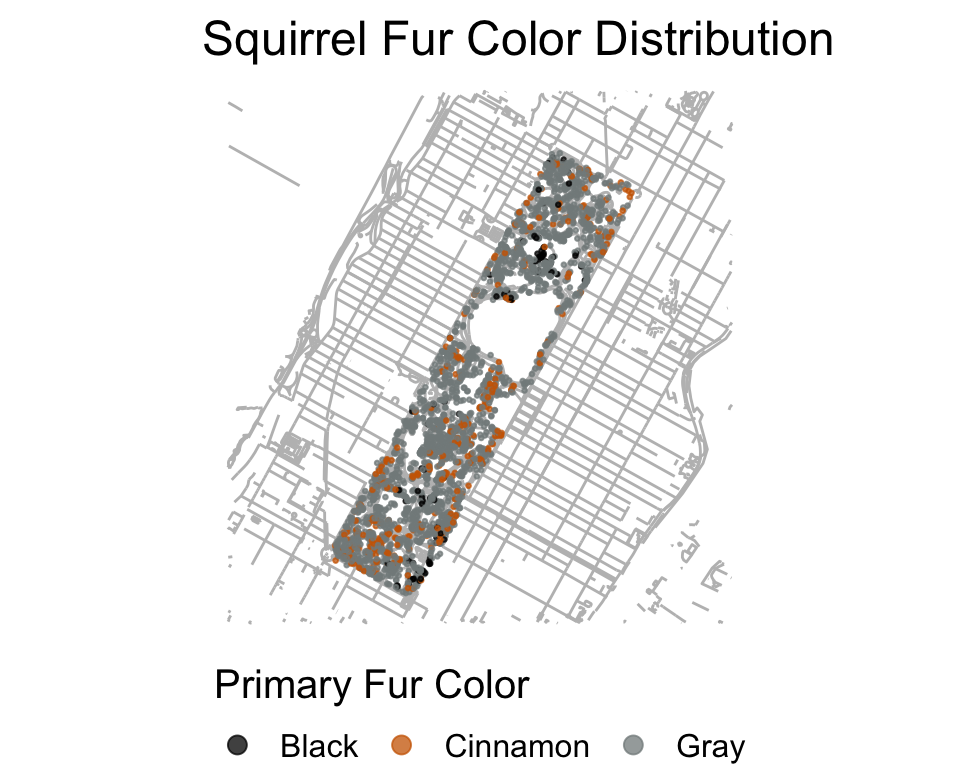
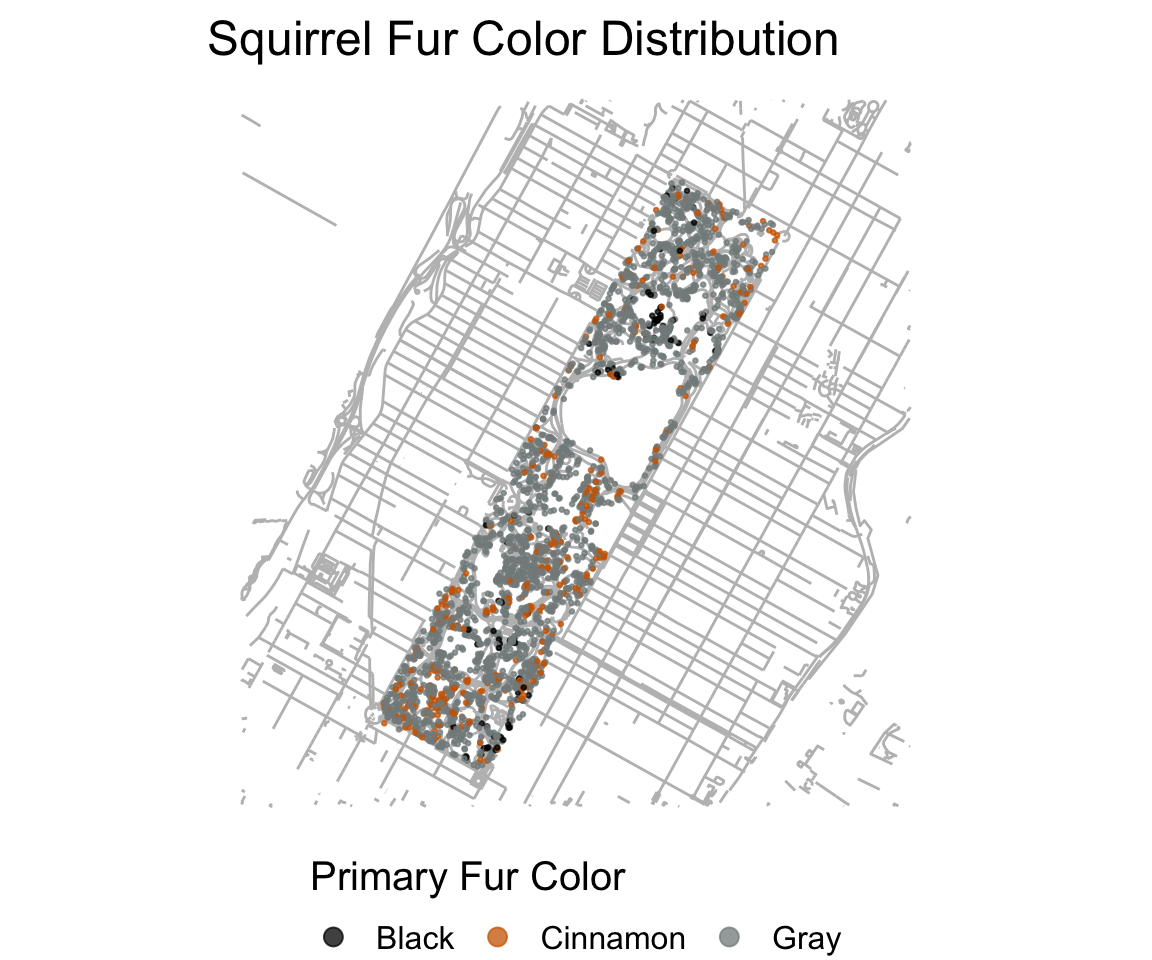
descriptives page formatting

diff --git a/descriptives.html b/descriptives.html
@@ -322,36 +322,44 @@ library(plotly)
 library(sf)
 library(knitr)</code></pre>
 <div
-id="in-this-section-we-will-be-looking-at-squirrel-demographics-such-as-fur-color-and-age."
+id="who-are-the-central-park-squirrels-here-we-report-who-they-are-and-what-they-look-like."
 class="section level4">
-<h4>In this section, we will be looking at squirrel demographics, such
-as fur color and age.</h4>
+<h4>Who are the Central Park squirrels? Here we report who they are and
+what they look like.</h4>
 <p>First, we will import the cleaned squirrel data and a shapefile of
 Central Park.</p>
 <pre class="r"><code>squirrel_census = 
   read_csv(&quot;data/clean_squirrel_2018.csv&quot;)
 
 central_park_map = st_read(here::here(&#39;central_park&#39;, &#39;CentralPark.shp&#39;), quiet = TRUE)</code></pre>
-<p>There are a total of 2824 squirrel observations in the data set.</p>
+<p>In the 2018 census, there are 2824 unique squirrel sightings
+documented. As volunteer researchers observed the squirrels, they
+provided each squirrel with a unique identifier and documented the age
+and fur colors of each critter.</p>
+<p><br><br></p>
 </div>
 <div id="lets-first-explore-squirrel-ages." class="section level4">
 <h4>Let’s first explore squirrel ages.</h4>
+<div style="display: flex;">
+<div>
 <pre class="r"><code>squirrel_census |&gt; 
   filter(age != &quot;?&quot;) |&gt; 
   ggplot() +
   geom_sf(data = central_park_map, color = &quot;grey&quot;) +
   geom_point(
     aes(x = x, y = y, color = age),
-    size = 0.5, alpha = 0.75) +
+    size = 0.5, alpha = 0.5) +
     theme_void(base_size = 15) +
   theme(legend.position = &#39;bottom&#39;) +
   guides(color = guide_legend(
     title.position = &quot;top&quot;,
     override.aes = list(size = 3))) +
-  scale_color_manual(values = c(&quot;Adult&quot; = &quot;aquamarine3&quot;, &quot;Juvenile&quot; = &quot;coral1&quot;)) +
-  labs(title = &quot;Squirrel Age&quot;,
-       color = &quot;Age&quot;)</code></pre>
+  scale_color_manual(values = c(&quot;Adult&quot; = &quot;aquamarine3&quot;, &quot;Juvenile&quot; = &quot;slateblue3&quot;)) +
+  labs(color = &quot;Age&quot;)</code></pre>
 <p><img src="descriptives_files/figure-html/unnamed-chunk-3-1.png" width="576" style="display: block; margin: auto;" /></p>
+</div>
+<div>
+<p><br><br> <br><br></p>
 <pre class="r"><code>squirrel_census |&gt; 
   filter(age != &quot;?&quot;) |&gt; 
   group_by(age) |&gt; 
@@ -366,15 +374,40 @@ central_park_map = st_read(here::here(&#39;central_park&#39;, &#39;CentralPark.s
 ## Warning in RColorBrewer::brewer.pal(N, &quot;Set2&quot;): minimal value for n is 3, returning requested palette with 3 different levels
 
 ## Warning in RColorBrewer::brewer.pal(N, &quot;Set2&quot;): minimal value for n is 3, returning requested palette with 3 different levels</code></pre>
-<div class="plotly html-widget html-fill-item-overflow-hidden html-fill-item" id="htmlwidget-11ba92f805b15582c7b4" style="width:672px;height:480px;"></div>
-<script type="application/json" data-for="htmlwidget-11ba92f805b15582c7b4">{"x":{"visdat":{"12606a756bb":["function () ","plotlyVisDat"]},"cur_data":"12606a756bb","attrs":{"12606a756bb":{"x":{},"y":{},"color":{},"alpha_stroke":1,"sizes":[10,100],"spans":[1,20],"type":"bar"}},"layout":{"margin":{"b":40,"l":60,"t":25,"r":10},"xaxis":{"domain":[0,1],"automargin":true,"title":"Age","type":"category","categoryorder":"array","categoryarray":["Adult","Juvenile"]},"yaxis":{"domain":[0,1],"automargin":true,"title":"Number of Squirrels"},"hovermode":"closest","showlegend":true},"source":"A","config":{"modeBarButtonsToAdd":["hoverclosest","hovercompare"],"showSendToCloud":false},"data":[{"x":["Adult"],"y":[2503],"type":"bar","name":"Adult","marker":{"color":"rgba(102,194,165,1)","line":{"color":"rgba(102,194,165,1)"}},"textfont":{"color":"rgba(102,194,165,1)"},"error_y":{"color":"rgba(102,194,165,1)"},"error_x":{"color":"rgba(102,194,165,1)"},"xaxis":"x","yaxis":"y","frame":null},{"x":["Juvenile"],"y":[319],"type":"bar","name":"Juvenile","marker":{"color":"rgba(141,160,203,1)","line":{"color":"rgba(141,160,203,1)"}},"textfont":{"color":"rgba(141,160,203,1)"},"error_y":{"color":"rgba(141,160,203,1)"},"error_x":{"color":"rgba(141,160,203,1)"},"xaxis":"x","yaxis":"y","frame":null}],"highlight":{"on":"plotly_click","persistent":false,"dynamic":false,"selectize":false,"opacityDim":0.20000000000000001,"selected":{"opacity":1},"debounce":0},"shinyEvents":["plotly_hover","plotly_click","plotly_selected","plotly_relayout","plotly_brushed","plotly_brushing","plotly_clickannotation","plotly_doubleclick","plotly_deselect","plotly_afterplot","plotly_sunburstclick"],"base_url":"https://plot.ly"},"evals":[],"jsHooks":[]}</script>
-<p>It appears that the majority of observed squirrels are adults. There
-are 2503 adult squirrels in the data set and only 319 juvenile
-squirrels.</p>
+<div class="plotly html-widget html-fill-item-overflow-hidden html-fill-item" id="htmlwidget-fb969b91764e32d0b79f" style="width:384px;height:336px;"></div>
+<script type="application/json" data-for="htmlwidget-fb969b91764e32d0b79f">{"x":{"visdat":{"12d6c1606457b":["function () ","plotlyVisDat"]},"cur_data":"12d6c1606457b","attrs":{"12d6c1606457b":{"x":{},"y":{},"color":{},"alpha_stroke":1,"sizes":[10,100],"spans":[1,20],"type":"bar"}},"layout":{"margin":{"b":40,"l":60,"t":25,"r":10},"xaxis":{"domain":[0,1],"automargin":true,"title":"Age","type":"category","categoryorder":"array","categoryarray":["Adult","Juvenile"]},"yaxis":{"domain":[0,1],"automargin":true,"title":"Number of Squirrels"},"hovermode":"closest","showlegend":true},"source":"A","config":{"modeBarButtonsToAdd":["hoverclosest","hovercompare"],"showSendToCloud":false},"data":[{"x":["Adult"],"y":[2503],"type":"bar","name":"Adult","marker":{"color":"rgba(102,194,165,1)","line":{"color":"rgba(102,194,165,1)"}},"textfont":{"color":"rgba(102,194,165,1)"},"error_y":{"color":"rgba(102,194,165,1)"},"error_x":{"color":"rgba(102,194,165,1)"},"xaxis":"x","yaxis":"y","frame":null},{"x":["Juvenile"],"y":[319],"type":"bar","name":"Juvenile","marker":{"color":"rgba(141,160,203,1)","line":{"color":"rgba(141,160,203,1)"}},"textfont":{"color":"rgba(141,160,203,1)"},"error_y":{"color":"rgba(141,160,203,1)"},"error_x":{"color":"rgba(141,160,203,1)"},"xaxis":"x","yaxis":"y","frame":null}],"highlight":{"on":"plotly_click","persistent":false,"dynamic":false,"selectize":false,"opacityDim":0.20000000000000001,"selected":{"opacity":1},"debounce":0},"shinyEvents":["plotly_hover","plotly_click","plotly_selected","plotly_relayout","plotly_brushed","plotly_brushing","plotly_clickannotation","plotly_doubleclick","plotly_deselect","plotly_afterplot","plotly_sunburstclick"],"base_url":"https://plot.ly"},"evals":[],"jsHooks":[]}</script>
+</div>
+</div>
+<p>The majority of observed squirrels are adults. There are 2503 adult
+squirrels in the data set and only 319 juvenile squirrels.</p>
+<p>We can also see that juvenile squirrels can be frequently observed in
+some areas of the Central Park, such as Central Park West between 72nd
+St. and 66th St. </p>
+<p><br><br></p>
+<div style="display: flex;">
+<div>
+<img src="pictures/baby_squirrel.jpeg" width="80%" style="display: block; margin: auto;" />
+<center style="font-size: 14px;">
+Juvenile gray squirrel
+</center>
+<p><br><br></p>
+</div>
+<div>
+<img src="pictures/adult_squirrel.jpeg" width="80%" style="display: block; margin: auto;" />
+<center style="font-size: 14px;">
+Adult cinnamon squirrel
+</center>
+</div>
+</div>
+<p><br><br></p>
 </div>
 <div id="lets-also-look-at-primary-and-highlight-fur-color."
 class="section level4">
 <h4>Let’s also look at primary and highlight fur color.</h4>
+<p>Some squirrels model only one fur color, but some extra fashionable
+squirrels will don mixed patterns of multiple fur colors. The primary
+fur color is the main color of the squirrel and the secondary colors
+accent the primary color to give some squirrels unique style.</p>
 <pre class="r"><code>ggplot() +
   geom_sf(data = central_park_map, color = &quot;grey&quot;) +
   geom_point(
@@ -389,7 +422,9 @@ class="section level4">
   labs(color = &#39;Primary Fur Color&#39;,
        title = &#39;Squirrel Fur Color Distribution&#39;) +
   scale_color_manual(values = c(&quot;Black&quot; = &quot;black&quot;, &quot;Gray&quot; = &quot;azure4&quot;, &quot;Cinnamon&quot; = &quot;darkorange3&quot;)) </code></pre>
-<p><img src="descriptives_files/figure-html/unnamed-chunk-5-1.png" width="576" style="display: block; margin: auto;" /></p>
+<p><img src="descriptives_files/figure-html/unnamed-chunk-7-1.png" width="576" style="display: block; margin: auto;" /></p>
+<div style="display: flex;">
+<div>
 <pre class="r"><code>squirrel_census |&gt; 
   filter(!(combination_of_primary_and_highlight_color %in% c(&quot;N/A&quot;, &quot;?&quot;))) |&gt; 
   group_by(primary_fur_color) |&gt; 
@@ -399,10 +434,13 @@ class="section level4">
          type = &quot;bar&quot;, colors = &quot;viridis&quot;) |&gt; 
   layout(
     xaxis = list(title = &quot;Primary Fur Color&quot;),   
-    yaxis = list(title = &quot;Number of Squirrels&quot;) 
+    yaxis = list(title = &quot;Number of Squirrels&quot;),
+    legend = list(x = 0, y = 1, orientation = &quot;h&quot;)
   )</code></pre>
-<div class="plotly html-widget html-fill-item-overflow-hidden html-fill-item" id="htmlwidget-a91b53ba2e6580a7b072" style="width:672px;height:480px;"></div>
-<script type="application/json" data-for="htmlwidget-a91b53ba2e6580a7b072">{"x":{"visdat":{"126061c4999af":["function () ","plotlyVisDat"]},"cur_data":"126061c4999af","attrs":{"126061c4999af":{"x":{},"y":{},"color":{},"colors":"viridis","alpha_stroke":1,"sizes":[10,100],"spans":[1,20],"type":"bar"}},"layout":{"margin":{"b":40,"l":60,"t":25,"r":10},"xaxis":{"domain":[0,1],"automargin":true,"title":"Primary Fur Color","type":"category","categoryorder":"array","categoryarray":["Black","Cinnamon","Gray"]},"yaxis":{"domain":[0,1],"automargin":true,"title":"Number of Squirrels"},"hovermode":"closest","showlegend":true},"source":"A","config":{"modeBarButtonsToAdd":["hoverclosest","hovercompare"],"showSendToCloud":false},"data":[{"x":["Black"],"y":[100],"type":"bar","name":"Black","marker":{"color":"rgba(68,1,84,1)","line":{"color":"rgba(68,1,84,1)"}},"textfont":{"color":"rgba(68,1,84,1)"},"error_y":{"color":"rgba(68,1,84,1)"},"error_x":{"color":"rgba(68,1,84,1)"},"xaxis":"x","yaxis":"y","frame":null},{"x":["Cinnamon"],"y":[375],"type":"bar","name":"Cinnamon","marker":{"color":"rgba(33,144,141,1)","line":{"color":"rgba(33,144,141,1)"}},"textfont":{"color":"rgba(33,144,141,1)"},"error_y":{"color":"rgba(33,144,141,1)"},"error_x":{"color":"rgba(33,144,141,1)"},"xaxis":"x","yaxis":"y","frame":null},{"x":["Gray"],"y":[2349],"type":"bar","name":"Gray","marker":{"color":"rgba(253,231,37,1)","line":{"color":"rgba(253,231,37,1)"}},"textfont":{"color":"rgba(253,231,37,1)"},"error_y":{"color":"rgba(253,231,37,1)"},"error_x":{"color":"rgba(253,231,37,1)"},"xaxis":"x","yaxis":"y","frame":null}],"highlight":{"on":"plotly_click","persistent":false,"dynamic":false,"selectize":false,"opacityDim":0.20000000000000001,"selected":{"opacity":1},"debounce":0},"shinyEvents":["plotly_hover","plotly_click","plotly_selected","plotly_relayout","plotly_brushed","plotly_brushing","plotly_clickannotation","plotly_doubleclick","plotly_deselect","plotly_afterplot","plotly_sunburstclick"],"base_url":"https://plot.ly"},"evals":[],"jsHooks":[]}</script>
+<div class="plotly html-widget html-fill-item-overflow-hidden html-fill-item" id="htmlwidget-af737b364f99b5605465" style="width:480px;height:384px;"></div>
+<script type="application/json" data-for="htmlwidget-af737b364f99b5605465">{"x":{"visdat":{"12d6c2f211859":["function () ","plotlyVisDat"]},"cur_data":"12d6c2f211859","attrs":{"12d6c2f211859":{"x":{},"y":{},"color":{},"colors":"viridis","alpha_stroke":1,"sizes":[10,100],"spans":[1,20],"type":"bar"}},"layout":{"margin":{"b":40,"l":60,"t":25,"r":10},"xaxis":{"domain":[0,1],"automargin":true,"title":"Primary Fur Color","type":"category","categoryorder":"array","categoryarray":["Black","Cinnamon","Gray"]},"yaxis":{"domain":[0,1],"automargin":true,"title":"Number of Squirrels"},"legend":{"x":0,"y":1,"orientation":"h"},"hovermode":"closest","showlegend":true},"source":"A","config":{"modeBarButtonsToAdd":["hoverclosest","hovercompare"],"showSendToCloud":false},"data":[{"x":["Black"],"y":[100],"type":"bar","name":"Black","marker":{"color":"rgba(68,1,84,1)","line":{"color":"rgba(68,1,84,1)"}},"textfont":{"color":"rgba(68,1,84,1)"},"error_y":{"color":"rgba(68,1,84,1)"},"error_x":{"color":"rgba(68,1,84,1)"},"xaxis":"x","yaxis":"y","frame":null},{"x":["Cinnamon"],"y":[375],"type":"bar","name":"Cinnamon","marker":{"color":"rgba(33,144,141,1)","line":{"color":"rgba(33,144,141,1)"}},"textfont":{"color":"rgba(33,144,141,1)"},"error_y":{"color":"rgba(33,144,141,1)"},"error_x":{"color":"rgba(33,144,141,1)"},"xaxis":"x","yaxis":"y","frame":null},{"x":["Gray"],"y":[2349],"type":"bar","name":"Gray","marker":{"color":"rgba(253,231,37,1)","line":{"color":"rgba(253,231,37,1)"}},"textfont":{"color":"rgba(253,231,37,1)"},"error_y":{"color":"rgba(253,231,37,1)"},"error_x":{"color":"rgba(253,231,37,1)"},"xaxis":"x","yaxis":"y","frame":null}],"highlight":{"on":"plotly_click","persistent":false,"dynamic":false,"selectize":false,"opacityDim":0.20000000000000001,"selected":{"opacity":1},"debounce":0},"shinyEvents":["plotly_hover","plotly_click","plotly_selected","plotly_relayout","plotly_brushed","plotly_brushing","plotly_clickannotation","plotly_doubleclick","plotly_deselect","plotly_afterplot","plotly_sunburstclick"],"base_url":"https://plot.ly"},"evals":[],"jsHooks":[]}</script>
+</div>
+<div>
 <pre class="r"><code>squirrel_census |&gt; 
   rename(combination_fur_color = combination_of_primary_and_highlight_color) |&gt; 
   count(combination_fur_color) |&gt; 
@@ -410,11 +448,18 @@ class="section level4">
   plot_ly (x = ~combination_fur_color, y = ~n, color = ~combination_fur_color,
          type = &quot;bar&quot;, colors = &quot;viridis&quot;) |&gt; 
   layout(
-    xaxis = list(title = &quot;Fur Color&quot;),   
+    xaxis = list(title = &quot;All Fur Colors&quot;,showticklabels = FALSE),   
     yaxis = list(title = &quot;Number of Squirrels&quot;) 
   )</code></pre>
-<div class="plotly html-widget html-fill-item-overflow-hidden html-fill-item" id="htmlwidget-0aa9896401de2e4ee5d9" style="width:672px;height:480px;"></div>
-<script type="application/json" data-for="htmlwidget-0aa9896401de2e4ee5d9">{"x":{"visdat":{"126063a1ddf08":["function () ","plotlyVisDat"]},"cur_data":"126063a1ddf08","attrs":{"126063a1ddf08":{"x":{},"y":{},"color":{},"colors":"viridis","alpha_stroke":1,"sizes":[10,100],"spans":[1,20],"type":"bar"}},"layout":{"margin":{"b":40,"l":60,"t":25,"r":10},"xaxis":{"domain":[0,1],"automargin":true,"title":"Fur Color","type":"category","categoryorder":"array","categoryarray":["Black+Gray, White","Black+White","Black+Cinnamon, White","Cinnamon+Black, White","Cinnamon+Gray, Black","Gray+Black, White","Black+Gray","Gray+Black, Cinnamon","Cinnamon+Black","Black+Cinnamon","Gray+Black","Gray+Black, Cinnamon, White","Cinnamon+Gray, White","Cinnamon+","Black+","Cinnamon+White","Cinnamon+Gray","Gray+Cinnamon, White","Gray+White","Gray+Cinnamon","Gray+"]},"yaxis":{"domain":[0,1],"automargin":true,"title":"Number of Squirrels"},"hovermode":"closest","showlegend":true},"source":"A","config":{"modeBarButtonsToAdd":["hoverclosest","hovercompare"],"showSendToCloud":false},"data":[{"x":["Black+Gray, White"],"y":[1],"type":"bar","name":"Black+Gray, White","marker":{"color":"rgba(68,1,84,1)","line":{"color":"rgba(68,1,84,1)"}},"textfont":{"color":"rgba(68,1,84,1)"},"error_y":{"color":"rgba(68,1,84,1)"},"error_x":{"color":"rgba(68,1,84,1)"},"xaxis":"x","yaxis":"y","frame":null},{"x":["Black+White"],"y":[2],"type":"bar","name":"Black+White","marker":{"color":"rgba(72,20,102,1)","line":{"color":"rgba(72,20,102,1)"}},"textfont":{"color":"rgba(72,20,102,1)"},"error_y":{"color":"rgba(72,20,102,1)"},"error_x":{"color":"rgba(72,20,102,1)"},"xaxis":"x","yaxis":"y","frame":null},{"x":["Black+Cinnamon, White"],"y":[3],"type":"bar","name":"Black+Cinnamon, White","marker":{"color":"rgba(72,37,117,1)","line":{"color":"rgba(72,37,117,1)"}},"textfont":{"color":"rgba(72,37,117,1)"},"error_y":{"color":"rgba(72,37,117,1)"},"error_x":{"color":"rgba(72,37,117,1)"},"xaxis":"x","yaxis":"y","frame":null},{"x":["Cinnamon+Black, White"],"y":[3],"type":"bar","name":"Cinnamon+Black, White","marker":{"color":"rgba(70,52,128,1)","line":{"color":"rgba(70,52,128,1)"}},"textfont":{"color":"rgba(70,52,128,1)"},"error_y":{"color":"rgba(70,52,128,1)"},"error_x":{"color":"rgba(70,52,128,1)"},"xaxis":"x","yaxis":"y","frame":null},{"x":["Cinnamon+Gray, Black"],"y":[3],"type":"bar","name":"Cinnamon+Gray, Black","marker":{"color":"rgba(65,68,135,1)","line":{"color":"rgba(65,68,135,1)"}},"textfont":{"color":"rgba(65,68,135,1)"},"error_y":{"color":"rgba(65,68,135,1)"},"error_x":{"color":"rgba(65,68,135,1)"},"xaxis":"x","yaxis":"y","frame":null},{"x":["Gray+Black, White"],"y":[7],"type":"bar","name":"Gray+Black, White","marker":{"color":"rgba(59,82,139,1)","line":{"color":"rgba(59,82,139,1)"}},"textfont":{"color":"rgba(59,82,139,1)"},"error_y":{"color":"rgba(59,82,139,1)"},"error_x":{"color":"rgba(59,82,139,1)"},"xaxis":"x","yaxis":"y","frame":null},{"x":["Black+Gray"],"y":[8],"type":"bar","name":"Black+Gray","marker":{"color":"rgba(53,96,141,1)","line":{"color":"rgba(53,96,141,1)"}},"textfont":{"color":"rgba(53,96,141,1)"},"error_y":{"color":"rgba(53,96,141,1)"},"error_x":{"color":"rgba(53,96,141,1)"},"xaxis":"x","yaxis":"y","frame":null},{"x":["Gray+Black, Cinnamon"],"y":[9],"type":"bar","name":"Gray+Black, Cinnamon","marker":{"color":"rgba(47,108,142,1)","line":{"color":"rgba(47,108,142,1)"}},"textfont":{"color":"rgba(47,108,142,1)"},"error_y":{"color":"rgba(47,108,142,1)"},"error_x":{"color":"rgba(47,108,142,1)"},"xaxis":"x","yaxis":"y","frame":null},{"x":["Cinnamon+Black"],"y":[10],"type":"bar","name":"Cinnamon+Black","marker":{"color":"rgba(42,120,142,1)","line":{"color":"rgba(42,120,142,1)"}},"textfont":{"color":"rgba(42,120,142,1)"},"error_y":{"color":"rgba(42,120,142,1)"},"error_x":{"color":"rgba(42,120,142,1)"},"xaxis":"x","yaxis":"y","frame":null},{"x":["Black+Cinnamon"],"y":[15],"type":"bar","name":"Black+Cinnamon","marker":{"color":"rgba(37,132,142,1)","line":{"color":"rgba(37,132,142,1)"}},"textfont":{"color":"rgba(37,132,142,1)"},"error_y":{"color":"rgba(37,132,142,1)"},"error_x":{"color":"rgba(37,132,142,1)"},"xaxis":"x","yaxis":"y","frame":null},{"x":["Gray+Black"],"y":[24],"type":"bar","name":"Gray+Black","marker":{"color":"rgba(33,144,141,1)","line":{"color":"rgba(33,144,141,1)"}},"textfont":{"color":"rgba(33,144,141,1)"},"error_y":{"color":"rgba(33,144,141,1)"},"error_x":{"color":"rgba(33,144,141,1)"},"xaxis":"x","yaxis":"y","frame":null},{"x":["Gray+Black, Cinnamon, White"],"y":[31],"type":"bar","name":"Gray+Black, Cinnamon, White","marker":{"color":"rgba(30,156,137,1)","line":{"color":"rgba(30,156,137,1)"}},"textfont":{"color":"rgba(30,156,137,1)"},"error_y":{"color":"rgba(30,156,137,1)"},"error_x":{"color":"rgba(30,156,137,1)"},"xaxis":"x","yaxis":"y","frame":null},{"x":["Cinnamon+Gray, White"],"y":[56],"type":"bar","name":"Cinnamon+Gray, White","marker":{"color":"rgba(34,168,132,1)","line":{"color":"rgba(34,168,132,1)"}},"textfont":{"color":"rgba(34,168,132,1)"},"error_y":{"color":"rgba(34,168,132,1)"},"error_x":{"color":"rgba(34,168,132,1)"},"xaxis":"x","yaxis":"y","frame":null},{"x":["Cinnamon+"],"y":[58],"type":"bar","name":"Cinnamon+","marker":{"color":"rgba(47,180,124,1)","line":{"color":"rgba(47,180,124,1)"}},"textfont":{"color":"rgba(47,180,124,1)"},"error_y":{"color":"rgba(47,180,124,1)"},"error_x":{"color":"rgba(47,180,124,1)"},"xaxis":"x","yaxis":"y","frame":null},{"x":["Black+"],"y":[71],"type":"bar","name":"Black+","marker":{"color":"rgba(67,190,113,1)","line":{"color":"rgba(67,190,113,1)"}},"textfont":{"color":"rgba(67,190,113,1)"},"error_y":{"color":"rgba(67,190,113,1)"},"error_x":{"color":"rgba(67,190,113,1)"},"xaxis":"x","yaxis":"y","frame":null},{"x":["Cinnamon+White"],"y":[90],"type":"bar","name":"Cinnamon+White","marker":{"color":"rgba(93,200,99,1)","line":{"color":"rgba(93,200,99,1)"}},"textfont":{"color":"rgba(93,200,99,1)"},"error_y":{"color":"rgba(93,200,99,1)"},"error_x":{"color":"rgba(93,200,99,1)"},"xaxis":"x","yaxis":"y","frame":null},{"x":["Cinnamon+Gray"],"y":[155],"type":"bar","name":"Cinnamon+Gray","marker":{"color":"rgba(122,209,81,1)","line":{"color":"rgba(122,209,81,1)"}},"textfont":{"color":"rgba(122,209,81,1)"},"error_y":{"color":"rgba(122,209,81,1)"},"error_x":{"color":"rgba(122,209,81,1)"},"xaxis":"x","yaxis":"y","frame":null},{"x":["Gray+Cinnamon, White"],"y":[258],"type":"bar","name":"Gray+Cinnamon, White","marker":{"color":"rgba(154,217,61,1)","line":{"color":"rgba(154,217,61,1)"}},"textfont":{"color":"rgba(154,217,61,1)"},"error_y":{"color":"rgba(154,217,61,1)"},"error_x":{"color":"rgba(154,217,61,1)"},"xaxis":"x","yaxis":"y","frame":null},{"x":["Gray+White"],"y":[466],"type":"bar","name":"Gray+White","marker":{"color":"rgba(188,223,39,1)","line":{"color":"rgba(188,223,39,1)"}},"textfont":{"color":"rgba(188,223,39,1)"},"error_y":{"color":"rgba(188,223,39,1)"},"error_x":{"color":"rgba(188,223,39,1)"},"xaxis":"x","yaxis":"y","frame":null},{"x":["Gray+Cinnamon"],"y":[706],"type":"bar","name":"Gray+Cinnamon","marker":{"color":"rgba(222,227,24,1)","line":{"color":"rgba(222,227,24,1)"}},"textfont":{"color":"rgba(222,227,24,1)"},"error_y":{"color":"rgba(222,227,24,1)"},"error_x":{"color":"rgba(222,227,24,1)"},"xaxis":"x","yaxis":"y","frame":null},{"x":["Gray+"],"y":[848],"type":"bar","name":"Gray+","marker":{"color":"rgba(253,231,37,1)","line":{"color":"rgba(253,231,37,1)"}},"textfont":{"color":"rgba(253,231,37,1)"},"error_y":{"color":"rgba(253,231,37,1)"},"error_x":{"color":"rgba(253,231,37,1)"},"xaxis":"x","yaxis":"y","frame":null}],"highlight":{"on":"plotly_click","persistent":false,"dynamic":false,"selectize":false,"opacityDim":0.20000000000000001,"selected":{"opacity":1},"debounce":0},"shinyEvents":["plotly_hover","plotly_click","plotly_selected","plotly_relayout","plotly_brushed","plotly_brushing","plotly_clickannotation","plotly_doubleclick","plotly_deselect","plotly_afterplot","plotly_sunburstclick"],"base_url":"https://plot.ly"},"evals":[],"jsHooks":[]}</script>
+<div class="plotly html-widget html-fill-item-overflow-hidden html-fill-item" id="htmlwidget-f2d235e9652469c2943a" style="width:624px;height:384px;"></div>
+<script type="application/json" data-for="htmlwidget-f2d235e9652469c2943a">{"x":{"visdat":{"12d6c4e4519dc":["function () ","plotlyVisDat"]},"cur_data":"12d6c4e4519dc","attrs":{"12d6c4e4519dc":{"x":{},"y":{},"color":{},"colors":"viridis","alpha_stroke":1,"sizes":[10,100],"spans":[1,20],"type":"bar"}},"layout":{"margin":{"b":40,"l":60,"t":25,"r":10},"xaxis":{"domain":[0,1],"automargin":true,"title":"All Fur Colors","showticklabels":false,"type":"category","categoryorder":"array","categoryarray":["Black+Gray, White","Black+White","Black+Cinnamon, White","Cinnamon+Black, White","Cinnamon+Gray, Black","Gray+Black, White","Black+Gray","Gray+Black, Cinnamon","Cinnamon+Black","Black+Cinnamon","Gray+Black","Gray+Black, Cinnamon, White","Cinnamon+Gray, White","Cinnamon+","Black+","Cinnamon+White","Cinnamon+Gray","Gray+Cinnamon, White","Gray+White","Gray+Cinnamon","Gray+"]},"yaxis":{"domain":[0,1],"automargin":true,"title":"Number of Squirrels"},"hovermode":"closest","showlegend":true},"source":"A","config":{"modeBarButtonsToAdd":["hoverclosest","hovercompare"],"showSendToCloud":false},"data":[{"x":["Black+Gray, White"],"y":[1],"type":"bar","name":"Black+Gray, White","marker":{"color":"rgba(68,1,84,1)","line":{"color":"rgba(68,1,84,1)"}},"textfont":{"color":"rgba(68,1,84,1)"},"error_y":{"color":"rgba(68,1,84,1)"},"error_x":{"color":"rgba(68,1,84,1)"},"xaxis":"x","yaxis":"y","frame":null},{"x":["Black+White"],"y":[2],"type":"bar","name":"Black+White","marker":{"color":"rgba(72,20,102,1)","line":{"color":"rgba(72,20,102,1)"}},"textfont":{"color":"rgba(72,20,102,1)"},"error_y":{"color":"rgba(72,20,102,1)"},"error_x":{"color":"rgba(72,20,102,1)"},"xaxis":"x","yaxis":"y","frame":null},{"x":["Black+Cinnamon, White"],"y":[3],"type":"bar","name":"Black+Cinnamon, White","marker":{"color":"rgba(72,37,117,1)","line":{"color":"rgba(72,37,117,1)"}},"textfont":{"color":"rgba(72,37,117,1)"},"error_y":{"color":"rgba(72,37,117,1)"},"error_x":{"color":"rgba(72,37,117,1)"},"xaxis":"x","yaxis":"y","frame":null},{"x":["Cinnamon+Black, White"],"y":[3],"type":"bar","name":"Cinnamon+Black, White","marker":{"color":"rgba(70,52,128,1)","line":{"color":"rgba(70,52,128,1)"}},"textfont":{"color":"rgba(70,52,128,1)"},"error_y":{"color":"rgba(70,52,128,1)"},"error_x":{"color":"rgba(70,52,128,1)"},"xaxis":"x","yaxis":"y","frame":null},{"x":["Cinnamon+Gray, Black"],"y":[3],"type":"bar","name":"Cinnamon+Gray, Black","marker":{"color":"rgba(65,68,135,1)","line":{"color":"rgba(65,68,135,1)"}},"textfont":{"color":"rgba(65,68,135,1)"},"error_y":{"color":"rgba(65,68,135,1)"},"error_x":{"color":"rgba(65,68,135,1)"},"xaxis":"x","yaxis":"y","frame":null},{"x":["Gray+Black, White"],"y":[7],"type":"bar","name":"Gray+Black, White","marker":{"color":"rgba(59,82,139,1)","line":{"color":"rgba(59,82,139,1)"}},"textfont":{"color":"rgba(59,82,139,1)"},"error_y":{"color":"rgba(59,82,139,1)"},"error_x":{"color":"rgba(59,82,139,1)"},"xaxis":"x","yaxis":"y","frame":null},{"x":["Black+Gray"],"y":[8],"type":"bar","name":"Black+Gray","marker":{"color":"rgba(53,96,141,1)","line":{"color":"rgba(53,96,141,1)"}},"textfont":{"color":"rgba(53,96,141,1)"},"error_y":{"color":"rgba(53,96,141,1)"},"error_x":{"color":"rgba(53,96,141,1)"},"xaxis":"x","yaxis":"y","frame":null},{"x":["Gray+Black, Cinnamon"],"y":[9],"type":"bar","name":"Gray+Black, Cinnamon","marker":{"color":"rgba(47,108,142,1)","line":{"color":"rgba(47,108,142,1)"}},"textfont":{"color":"rgba(47,108,142,1)"},"error_y":{"color":"rgba(47,108,142,1)"},"error_x":{"color":"rgba(47,108,142,1)"},"xaxis":"x","yaxis":"y","frame":null},{"x":["Cinnamon+Black"],"y":[10],"type":"bar","name":"Cinnamon+Black","marker":{"color":"rgba(42,120,142,1)","line":{"color":"rgba(42,120,142,1)"}},"textfont":{"color":"rgba(42,120,142,1)"},"error_y":{"color":"rgba(42,120,142,1)"},"error_x":{"color":"rgba(42,120,142,1)"},"xaxis":"x","yaxis":"y","frame":null},{"x":["Black+Cinnamon"],"y":[15],"type":"bar","name":"Black+Cinnamon","marker":{"color":"rgba(37,132,142,1)","line":{"color":"rgba(37,132,142,1)"}},"textfont":{"color":"rgba(37,132,142,1)"},"error_y":{"color":"rgba(37,132,142,1)"},"error_x":{"color":"rgba(37,132,142,1)"},"xaxis":"x","yaxis":"y","frame":null},{"x":["Gray+Black"],"y":[24],"type":"bar","name":"Gray+Black","marker":{"color":"rgba(33,144,141,1)","line":{"color":"rgba(33,144,141,1)"}},"textfont":{"color":"rgba(33,144,141,1)"},"error_y":{"color":"rgba(33,144,141,1)"},"error_x":{"color":"rgba(33,144,141,1)"},"xaxis":"x","yaxis":"y","frame":null},{"x":["Gray+Black, Cinnamon, White"],"y":[31],"type":"bar","name":"Gray+Black, Cinnamon, White","marker":{"color":"rgba(30,156,137,1)","line":{"color":"rgba(30,156,137,1)"}},"textfont":{"color":"rgba(30,156,137,1)"},"error_y":{"color":"rgba(30,156,137,1)"},"error_x":{"color":"rgba(30,156,137,1)"},"xaxis":"x","yaxis":"y","frame":null},{"x":["Cinnamon+Gray, White"],"y":[56],"type":"bar","name":"Cinnamon+Gray, White","marker":{"color":"rgba(34,168,132,1)","line":{"color":"rgba(34,168,132,1)"}},"textfont":{"color":"rgba(34,168,132,1)"},"error_y":{"color":"rgba(34,168,132,1)"},"error_x":{"color":"rgba(34,168,132,1)"},"xaxis":"x","yaxis":"y","frame":null},{"x":["Cinnamon+"],"y":[58],"type":"bar","name":"Cinnamon+","marker":{"color":"rgba(47,180,124,1)","line":{"color":"rgba(47,180,124,1)"}},"textfont":{"color":"rgba(47,180,124,1)"},"error_y":{"color":"rgba(47,180,124,1)"},"error_x":{"color":"rgba(47,180,124,1)"},"xaxis":"x","yaxis":"y","frame":null},{"x":["Black+"],"y":[71],"type":"bar","name":"Black+","marker":{"color":"rgba(67,190,113,1)","line":{"color":"rgba(67,190,113,1)"}},"textfont":{"color":"rgba(67,190,113,1)"},"error_y":{"color":"rgba(67,190,113,1)"},"error_x":{"color":"rgba(67,190,113,1)"},"xaxis":"x","yaxis":"y","frame":null},{"x":["Cinnamon+White"],"y":[90],"type":"bar","name":"Cinnamon+White","marker":{"color":"rgba(93,200,99,1)","line":{"color":"rgba(93,200,99,1)"}},"textfont":{"color":"rgba(93,200,99,1)"},"error_y":{"color":"rgba(93,200,99,1)"},"error_x":{"color":"rgba(93,200,99,1)"},"xaxis":"x","yaxis":"y","frame":null},{"x":["Cinnamon+Gray"],"y":[155],"type":"bar","name":"Cinnamon+Gray","marker":{"color":"rgba(122,209,81,1)","line":{"color":"rgba(122,209,81,1)"}},"textfont":{"color":"rgba(122,209,81,1)"},"error_y":{"color":"rgba(122,209,81,1)"},"error_x":{"color":"rgba(122,209,81,1)"},"xaxis":"x","yaxis":"y","frame":null},{"x":["Gray+Cinnamon, White"],"y":[258],"type":"bar","name":"Gray+Cinnamon, White","marker":{"color":"rgba(154,217,61,1)","line":{"color":"rgba(154,217,61,1)"}},"textfont":{"color":"rgba(154,217,61,1)"},"error_y":{"color":"rgba(154,217,61,1)"},"error_x":{"color":"rgba(154,217,61,1)"},"xaxis":"x","yaxis":"y","frame":null},{"x":["Gray+White"],"y":[466],"type":"bar","name":"Gray+White","marker":{"color":"rgba(188,223,39,1)","line":{"color":"rgba(188,223,39,1)"}},"textfont":{"color":"rgba(188,223,39,1)"},"error_y":{"color":"rgba(188,223,39,1)"},"error_x":{"color":"rgba(188,223,39,1)"},"xaxis":"x","yaxis":"y","frame":null},{"x":["Gray+Cinnamon"],"y":[706],"type":"bar","name":"Gray+Cinnamon","marker":{"color":"rgba(222,227,24,1)","line":{"color":"rgba(222,227,24,1)"}},"textfont":{"color":"rgba(222,227,24,1)"},"error_y":{"color":"rgba(222,227,24,1)"},"error_x":{"color":"rgba(222,227,24,1)"},"xaxis":"x","yaxis":"y","frame":null},{"x":["Gray+"],"y":[848],"type":"bar","name":"Gray+","marker":{"color":"rgba(253,231,37,1)","line":{"color":"rgba(253,231,37,1)"}},"textfont":{"color":"rgba(253,231,37,1)"},"error_y":{"color":"rgba(253,231,37,1)"},"error_x":{"color":"rgba(253,231,37,1)"},"xaxis":"x","yaxis":"y","frame":null}],"highlight":{"on":"plotly_click","persistent":false,"dynamic":false,"selectize":false,"opacityDim":0.20000000000000001,"selected":{"opacity":1},"debounce":0},"shinyEvents":["plotly_hover","plotly_click","plotly_selected","plotly_relayout","plotly_brushed","plotly_brushing","plotly_clickannotation","plotly_doubleclick","plotly_deselect","plotly_afterplot","plotly_sunburstclick"],"base_url":"https://plot.ly"},"evals":[],"jsHooks":[]}</script>
+</div>
+</div>
+<p>We can see that most squirrel in Central Park have Gray fur with some
+Cinnamon or White accents. Squirrels that are black with any accent
+colors are very rare! Consider yourself lucky if you’ve ever seen one of
+them frolicking in the park!</p>
+<p><br><br></p>
 </div>
 <div id="is-there-a-difference-in-primary-fur-color-depending-on-age"
 class="section level4">
@@ -434,8 +479,12 @@ squirrel_fur_age |&gt;
     xaxis = list(title = &quot;Age&quot;),   
     yaxis = list(title = &quot;Percent of Squirrels (%)&quot;)
   )</code></pre>
-<div class="plotly html-widget html-fill-item-overflow-hidden html-fill-item" id="htmlwidget-fba5270245e9abc7f17e" style="width:672px;height:480px;"></div>
-<script type="application/json" data-for="htmlwidget-fba5270245e9abc7f17e">{"x":{"visdat":{"1260672fbc71c":["function () ","plotlyVisDat"]},"cur_data":"1260672fbc71c","attrs":{"1260672fbc71c":{"x":{},"y":{},"text":{},"color":{},"colors":"viridis","alpha_stroke":1,"sizes":[10,100],"spans":[1,20],"type":"bar"}},"layout":{"margin":{"b":40,"l":60,"t":25,"r":10},"xaxis":{"domain":[0,1],"automargin":true,"title":"Age","type":"category","categoryorder":"array","categoryarray":["Adult","Juvenile"]},"yaxis":{"domain":[0,1],"automargin":true,"title":"Percent of Squirrels (%)"},"hovermode":"closest","showlegend":true},"source":"A","config":{"modeBarButtonsToAdd":["hoverclosest","hovercompare"],"showSendToCloud":false},"data":[{"x":["Adult","Juvenile"],"y":[3.7000000000000002,2.5],"text":["Age: Adult<br>Primary Fur Color: Black<br>Percent: 3.7%","Age: Juvenile<br>Primary Fur Color: Black<br>Percent: 2.5%"],"type":"bar","name":"Black","marker":{"color":"rgba(68,1,84,1)","line":{"color":"rgba(68,1,84,1)"}},"textfont":{"color":"rgba(68,1,84,1)"},"error_y":{"color":"rgba(68,1,84,1)"},"error_x":{"color":"rgba(68,1,84,1)"},"xaxis":"x","yaxis":"y","frame":null},{"x":["Adult","Juvenile"],"y":[12.699999999999999,18.199999999999999],"text":["Age: Adult<br>Primary Fur Color: Cinnamon<br>Percent: 12.7%","Age: Juvenile<br>Primary Fur Color: Cinnamon<br>Percent: 18.2%"],"type":"bar","name":"Cinnamon","marker":{"color":"rgba(33,144,141,1)","line":{"color":"rgba(33,144,141,1)"}},"textfont":{"color":"rgba(33,144,141,1)"},"error_y":{"color":"rgba(33,144,141,1)"},"error_x":{"color":"rgba(33,144,141,1)"},"xaxis":"x","yaxis":"y","frame":null},{"x":["Adult","Juvenile"],"y":[83.700000000000003,79.299999999999997],"text":["Age: Adult<br>Primary Fur Color: Gray<br>Percent: 83.7%","Age: Juvenile<br>Primary Fur Color: Gray<br>Percent: 79.3%"],"type":"bar","name":"Gray","marker":{"color":"rgba(253,231,37,1)","line":{"color":"rgba(253,231,37,1)"}},"textfont":{"color":"rgba(253,231,37,1)"},"error_y":{"color":"rgba(253,231,37,1)"},"error_x":{"color":"rgba(253,231,37,1)"},"xaxis":"x","yaxis":"y","frame":null}],"highlight":{"on":"plotly_click","persistent":false,"dynamic":false,"selectize":false,"opacityDim":0.20000000000000001,"selected":{"opacity":1},"debounce":0},"shinyEvents":["plotly_hover","plotly_click","plotly_selected","plotly_relayout","plotly_brushed","plotly_brushing","plotly_clickannotation","plotly_doubleclick","plotly_deselect","plotly_afterplot","plotly_sunburstclick"],"base_url":"https://plot.ly"},"evals":[],"jsHooks":[]}</script>
+<div class="plotly html-widget html-fill-item-overflow-hidden html-fill-item" id="htmlwidget-86ed33c8e88c8a35cffe" style="width:672px;height:480px;"></div>
+<script type="application/json" data-for="htmlwidget-86ed33c8e88c8a35cffe">{"x":{"visdat":{"12d6c3f1cd2e9":["function () ","plotlyVisDat"]},"cur_data":"12d6c3f1cd2e9","attrs":{"12d6c3f1cd2e9":{"x":{},"y":{},"text":{},"color":{},"colors":"viridis","alpha_stroke":1,"sizes":[10,100],"spans":[1,20],"type":"bar"}},"layout":{"margin":{"b":40,"l":60,"t":25,"r":10},"xaxis":{"domain":[0,1],"automargin":true,"title":"Age","type":"category","categoryorder":"array","categoryarray":["Adult","Juvenile"]},"yaxis":{"domain":[0,1],"automargin":true,"title":"Percent of Squirrels (%)"},"hovermode":"closest","showlegend":true},"source":"A","config":{"modeBarButtonsToAdd":["hoverclosest","hovercompare"],"showSendToCloud":false},"data":[{"x":["Adult","Juvenile"],"y":[3.7000000000000002,2.5],"text":["Age: Adult<br>Primary Fur Color: Black<br>Percent: 3.7%","Age: Juvenile<br>Primary Fur Color: Black<br>Percent: 2.5%"],"type":"bar","name":"Black","marker":{"color":"rgba(68,1,84,1)","line":{"color":"rgba(68,1,84,1)"}},"textfont":{"color":"rgba(68,1,84,1)"},"error_y":{"color":"rgba(68,1,84,1)"},"error_x":{"color":"rgba(68,1,84,1)"},"xaxis":"x","yaxis":"y","frame":null},{"x":["Adult","Juvenile"],"y":[12.699999999999999,18.199999999999999],"text":["Age: Adult<br>Primary Fur Color: Cinnamon<br>Percent: 12.7%","Age: Juvenile<br>Primary Fur Color: Cinnamon<br>Percent: 18.2%"],"type":"bar","name":"Cinnamon","marker":{"color":"rgba(33,144,141,1)","line":{"color":"rgba(33,144,141,1)"}},"textfont":{"color":"rgba(33,144,141,1)"},"error_y":{"color":"rgba(33,144,141,1)"},"error_x":{"color":"rgba(33,144,141,1)"},"xaxis":"x","yaxis":"y","frame":null},{"x":["Adult","Juvenile"],"y":[83.700000000000003,79.299999999999997],"text":["Age: Adult<br>Primary Fur Color: Gray<br>Percent: 83.7%","Age: Juvenile<br>Primary Fur Color: Gray<br>Percent: 79.3%"],"type":"bar","name":"Gray","marker":{"color":"rgba(253,231,37,1)","line":{"color":"rgba(253,231,37,1)"}},"textfont":{"color":"rgba(253,231,37,1)"},"error_y":{"color":"rgba(253,231,37,1)"},"error_x":{"color":"rgba(253,231,37,1)"},"xaxis":"x","yaxis":"y","frame":null}],"highlight":{"on":"plotly_click","persistent":false,"dynamic":false,"selectize":false,"opacityDim":0.20000000000000001,"selected":{"opacity":1},"debounce":0},"shinyEvents":["plotly_hover","plotly_click","plotly_selected","plotly_relayout","plotly_brushed","plotly_brushing","plotly_clickannotation","plotly_doubleclick","plotly_deselect","plotly_afterplot","plotly_sunburstclick"],"base_url":"https://plot.ly"},"evals":[],"jsHooks":[]}</script>
+<p>There does not appear to be any different in fur color by age. Among
+both the young and the old gray squirrels dominate the counts!</p>
+<p><br><br></p>
+<p><br><br></p>
 </div>
 <div id="hypothesis-testing" class="section level3">
 <h3>Hypothesis Testing</h3>
